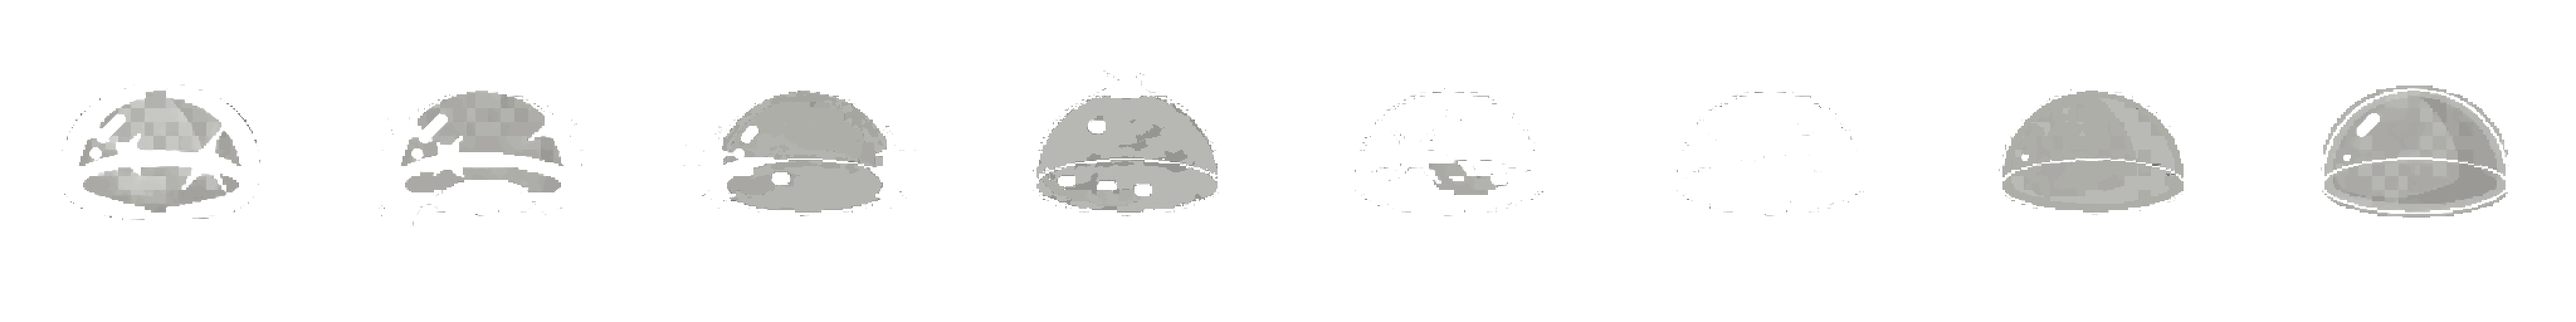
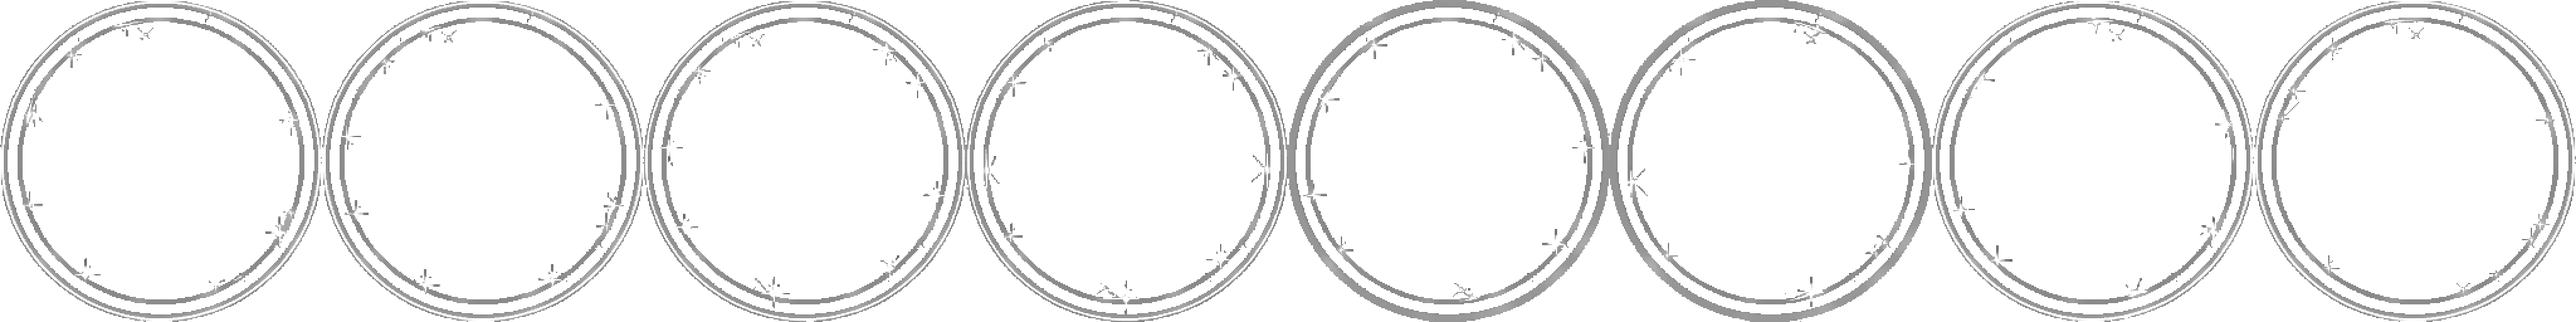
fix(vfx): the shield surrounds the hunter, because the art is a shell now
The VFX contract's own acceptance clause did not pass. Measured in the arena on
all four named silhouettes, the standing barrier cleared neither the crown nor
the soles of anybody: 488 x 315 px of picture across a 412-px hunter, a band
across the ribs.

The placement was already right. fx_shield was a squat hemisphere filling
0.762 x 0.492 of its 512-px frame, so asking for the authored 1.15 x the
hunter's visible height meant a 963-px frame — ratio 1.88, over the asset-scale
budget. The renderer refused the magnification (LAW 16), clamped to 1.25 and
drew the largest honest dome the art could show, which is 0.76 x his height.
No number could have fixed that; the wall was the asset.

So the asset was regenerated, not the number:

  create_image_pixen 4200157a-9a34-4006-919b-c33ebbbe711c  (a closed ring of
    light, thick band, empty middle, reaching all four edges)
  animate_image      4ed34cb6-2e05-4c20-a42c-0227194d327d  (first and last
    frame pinned to that still, so the loop closes)
  clip.py job --effect + rhart.py whiten

Strip geometry unchanged: 4096 x 512, eight 512-px frames, which is what the
declared frame count in the profile table depends on. It fills 1.000 x 1.000 of
its frame now, so the same authored 1.15 draws a 474-px shell at 0.93 of native
— inside the budget, clearing the crown by 39 px and the soles by 23 on every
hunter from THE OATHBOUND's 162-px silhouette to QUIVER's 373.

Two more things the art measurement found:
[…]

Changed region(s): [[0.0, 0.0, 1.0, 1.0]]

diff --git a/tests/unit/IdleXIdle.Game.Tests/vfx_shield_test.cs b/tests/unit/IdleXIdle.Game.Tests/vfx_shield_test.cs
@@ -17,6 +17,15 @@ namespace IdleXIdle.Game.Tests;
 /// height, spanning 39 % to 71 % down his torso. It was, exactly, a tiny sprite in the torso centre.
 /// </para>
 /// <para>
+/// <b>The placement arithmetic alone did not fix it, and this file is where that shows.</b> Sizing by
+/// the CONTENT rather than the frame took the barrier from 132 px to 315, which is bigger and still
+/// cuts the crown and the soles — the clause fails on 0.76x exactly as it fails on 0.32x. The wall was
+/// the art: a hemisphere filling 0.492 of its frame cannot be enlarged to a whole-body shell without
+/// the magnification LAW 16 forbids. So the strip was regenerated (2026-09-04) as a closed ring filling
+/// its frame, and the same authored 1.15 now draws 474 px at 0.93 of native. Both content boxes are
+/// pinned below: the retired one keeps the clamp under test, the shipped one carries the acceptance.
+/// </para>
+/// <para>
 /// <b>And §71's named pair cannot fail.</b> <c>UiKit.AnimSprite</c> fills the box height with the
 /// cropped figure, so all ten champions draw within four pixels of the same HEIGHT: THE SEEKER is
 /// 412 px and THE MAGPIE is 412 px. A height-based barrier is identical on them by construction. The
@@ -48,11 +57,26 @@ public class VfxShieldTests
         ["quiver"] = new(0.096f, 0.068f, 0.096f, 0.033f),
     };
 
-    /// <summary>The shipped <c>fx_shield</c> strip: its dome fills 0.762 x 0.492 of a 512-px frame.</summary>
-    private static readonly ContentBox ShippedShield = new(0.119f, 0.215f, 0.119f, 0.293f);
+    /// <summary>
+    /// The shipped <c>fx_shield</c> strip as regenerated 2026-09-04: a closed ring filling its frame.
+    /// </summary>
+    /// <remarks>
+    /// Measured from <c>assets/art/VFX/shield/fx_shield_strip8_512.png</c> by
+    /// <c>tools/asset-pipeline/fx_bounds.py</c>: <c>L 0.000 T 0.000 R 0.000 B 0.000 —
+    /// content 1.000w x 1.000h</c>. The ring is inscribed in the square, so its drawn diameter IS the
+    /// content box, which is what lets the barrier be a fraction of the hunter rather than of a margin.
+    /// </remarks>
+    private static readonly ContentBox ShippedShield = new(0f, 0f, 0f, 0f);
 
-    /// <summary>The regeneration order in §8 of the design: content at 0.91 of the frame, centred.</summary>
-    private static readonly ContentBox OrderedShield = new(0.093f, 0.045f, 0.093f, 0.045f);
+    /// <summary>
+    /// The strip that shipped until 2026-09-04 — a hemisphere filling 0.762 x 0.492 of its frame.
+    /// </summary>
+    /// <remarks>
+    /// Kept as a NAMED FIXTURE, not as history for its own sake: it is the only art in the repo that
+    /// exercises the §73 clamp, and a clamp with no test is a branch nobody has run. It is what LAW 16
+    /// looks like as numbers — the shape a regeneration order is written against.
+    /// </remarks>
+    private static readonly ContentBox RetiredDome = new(0.119f, 0.215f, 0.119f, 0.293f);
 
     private const int Native = 512;
 
@@ -73,7 +97,7 @@ public class VfxShieldTests
         Assert.Equal(268, Hunter("seeker").Rect.Width);
         Assert.Equal(302, Hunter("magpie").Rect.Width);
 
-        Assert.Equal(Barrier("seeker", OrderedShield).Content, Barrier("magpie", OrderedShield).Content);
+        Assert.Equal(Barrier("seeker", ShippedShield).Content, Barrier("magpie", ShippedShield).Content);
     }
 
     [Fact]
@@ -90,16 +114,34 @@ public class VfxShieldTests
     public void test_the_barrier_encloses_every_champion_with_room_to_spare()
     {
         // The enclosure clause. It replaces a runtime width-guard dial that would never have fired:
-        // the binding case is QUIVER at 373 px inside a 424-px dome, and a dial that never fires is a
-        // dormant dial. The constraint lives here and in the regeneration order instead.
+        // the binding case is QUIVER at 373 px inside a 474-px shell, and a dial that never fires is a
+        // dormant dial. The constraint lives here and in the art's own framing instead.
         foreach (var id in Champions.Keys)
         {
             var hunter = Hunter(id);
-            var dome = Barrier(id, OrderedShield).Content;
+            var dome = Barrier(id, ShippedShield).Content;
             Assert.True(dome.Width >= hunter.Rect.Width * 1.05f,
                         $"{id}: dome {dome.Width} does not enclose a {hunter.Rect.Width}px silhouette");
             Assert.True(dome.Left <= hunter.Rect.Left && dome.Right >= hunter.Rect.Right,
                         $"{id}: the hunter pokes out of his own shield");
+        }
+    }
+
+    [Fact]
+    public void test_the_barrier_clears_the_crown_and_the_soles_on_every_champion()
+    {
+        // THE CLAUSE THE VERIFIER FAILED THE CONTRACT ON: it is not enough that the barrier be large,
+        // it has to close ABOVE the head and BELOW the feet, or it is a band across the body wearing a
+        // bigger number. Both edges, all ten, with the ±0.02-height lift the profile carries — which is
+        // why the two margins are not equal and both have to be asserted.
+        foreach (var id in Champions.Keys)
+        {
+            var hunter = Hunter(id);
+            var dome = Barrier(id, ShippedShield).Content;
+            Assert.True(dome.Top <= hunter.Rect.Top - 20,
+                        $"{id}: the shell closes {hunter.Rect.Top - dome.Top}px above the crown, which is not clear of it");
+            Assert.True(dome.Bottom >= hunter.Rect.Bottom + 20,
+                        $"{id}: the shell closes {dome.Bottom - hunter.Rect.Bottom}px below the soles, which is not clear of them");
         }
     }
 
@@ -111,7 +153,7 @@ public class VfxShieldTests
         foreach (var id in Champions.Keys)
         {
             var hunter = Hunter(id);
-            var dome = Barrier(id, OrderedShield).Content;
+            var dome = Barrier(id, ShippedShield).Content;
             var ratio = dome.Height / (float)hunter.Rect.Height;
             Assert.InRange(ratio, 1.10f, 1.20f);
             Assert.True(dome.Top < hunter.Rect.Top - 20,
@@ -123,11 +165,11 @@ public class VfxShieldTests
     public void test_the_barrier_is_not_a_tiny_sprite_in_the_torso_centre()
     {
         // The literal §106 clause, and the literal defect: 0.32x the hunter, from 39 % to 71 % down him.
-        // Even against the SHIPPED strip — which the budget forces the renderer to under-draw — the
-        // barrier now covers most of the body rather than a band across the ribs.
+        // Measured against what the renderer ACTUALLY draws — clamp: true is the renderer's own call —
+        // so this cannot be satisfied by a size the budget then refuses to honour.
         var hunter = Hunter("seeker");
         var drawn = Barrier("seeker", ShippedShield, clamp: true).Content;
-        Assert.True(drawn.Height / (float)hunter.Rect.Height > 0.70f);
+        Assert.True(drawn.Height > hunter.Rect.Height, "the shell is taller than the man inside it");
         Assert.True(drawn.Width > hunter.Rect.Width);
         Assert.Equal(hunter.Rect.Center.X, drawn.Center.X);
     }
@@ -140,10 +182,10 @@ public class VfxShieldTests
         // "absorb impact lands on barrier" is only guaranteeable if the absorb IS the barrier's
         // rectangle. A ripple offset onto the dome's flank would be normalised to the CHAMPION's width,
         // which runs 162–373 px, so the same number would land somewhere different on every hunter.
-        var barrier = Barrier("seeker", OrderedShield).Content;
+        var barrier = Barrier("seeker", ShippedShield).Content;
         foreach (var p in new[] { VfxProfiles.ShieldGain, VfxProfiles.ShieldAbsorb, VfxProfiles.ShieldUndying })
         {
-            var moment = VfxResolver.Resolve(p, Hunter("seeker"), OrderedShield, Native, Native).Content;
+            var moment = VfxResolver.Resolve(p, Hunter("seeker"), ShippedShield, Native, Native).Content;
             Assert.Equal(barrier, moment);
         }
     }
@@ -154,7 +196,7 @@ public class VfxShieldTests
         // fx_shield_break's own measured content box — it already fills 0.926 x 0.922 of its frame,
         // which is the shape fx_shield is being ordered to match.
         var breakArt = new ContentBox(0.037f, 0.043f, 0.037f, 0.035f);
-        var barrier = Barrier("seeker", OrderedShield).Content;
+        var barrier = Barrier("seeker", ShippedShield).Content;
         var burst = VfxResolver.Resolve(VfxProfiles.ShieldBreak, Hunter("seeker"), breakArt, Native, Native).Content;
 
         Assert.True(burst.Height > barrier.Height, "the break must read as the barrier coming apart");
@@ -173,7 +215,7 @@ public class VfxShieldTests
         {
             var drawn = new Rectangle(box.X + push, box.Y, box.Width, box.Height);
             var hunter = new VisualBounds(VfxFigure.VisualRect(drawn, Champions["seeker"]), 1);
-            var dome = VfxResolver.Resolve(VfxProfiles.ShieldBarrier, hunter, OrderedShield, Native, Native).Content;
+            var dome = VfxResolver.Resolve(VfxProfiles.ShieldBarrier, hunter, ShippedShield, Native, Native).Content;
             Assert.Equal(hunter.Rect.Center.X, dome.Center.X);
             Assert.Equal(box.Center.X + push, dome.Center.X);
         }
@@ -182,34 +224,51 @@ public class VfxShieldTests
         Assert.Equal(VfxFollow.Pinned, VfxProfiles.ShieldBarrier.Follow);
     }
 
-    // ── LAW 16: the asset is wrong, and the contract says so in a number ──────────────────────────
+    // ── LAW 16: the asset was wrong, and the contract said so in a number ─────────────────────────
 
     [Fact]
-    public void test_the_shipped_shield_strip_is_over_the_asset_scale_budget()
+    public void test_the_retired_dome_was_over_the_budget_and_the_renderer_clamped_it()
     {
-        // THE WHOLE OF LAW 16 IN ONE ASSERTION. To reach §65's band with today's art the renderer would
-        // have to blow a 512-px frame up to 963 — which is `scale = 3.4` with a new name. The asset is
-        // regenerated, not the number, and until it is the renderer draws the honest smaller dome and
-        // the ratio reports why.
-        var honest = Barrier("seeker", ShippedShield);
+        // THE WHOLE OF LAW 16 IN ONE ASSERTION, kept live against the art it was written about. To
+        // reach §65's band with the hemisphere the renderer would have had to blow a 512-px frame up to
+        // 963 — `scale = 3.4` with a new name. It refused, drew the honest smaller dome, and the ratio
+        // said why. That refusal is the branch this fixture exists to keep exercised: every strip the
+        // game ships is inside the budget now, so without a named over-budget shape the clamp would be
+        // code no test has ever run.
+        var honest = Barrier("seeker", RetiredDome);
         Assert.Equal(VfxBudget.Verdict.Over, VfxBudget.Of(honest.NativeRatio));
         Assert.InRange(honest.NativeRatio, 1.87f, 1.89f);
 
-        var drawn = Barrier("seeker", ShippedShield, clamp: true);
+        var drawn = Barrier("seeker", RetiredDome, clamp: true);
         Assert.Equal(VfxBudget.Max, drawn.NativeRatio, 3);
+
+        // ...and clamped is not the same as enough. THE DEFECT, as the number it was: 315 px of picture
+        // across a 412-px hunter, cutting his crown and his soles both.
+        var hunter = Hunter("seeker");
+        var clamped = drawn.Content;
+        Assert.True(clamped.Height < hunter.Rect.Height, "the retired dome could not reach the hunter's height");
+        Assert.True(clamped.Top > hunter.Rect.Top, "...so it cut the crown");
+        Assert.True(clamped.Bottom < hunter.Rect.Bottom, "...and it cut the soles");
     }
 
     [Fact]
-    public void test_the_regeneration_order_brings_every_shield_moment_into_budget()
+    public void test_the_shipped_strip_brings_every_shield_moment_inside_the_budget()
     {
-        // The order: 8 frames of 512, content at least 0.91 of the frame height, vertically centred,
-        // aspect 0.85–0.95. These are the ratios that order produces — the evidence that the profile
-        // numbers are achievable rather than aspirational.
+        // The regeneration landed: a closed ring on 8 frames of 512, filling its frame, so the SAME
+        // authored 1.15 draws 474 px at 0.93 of native on every hunter. The evidence that the profile
+        // numbers are achievable rather than aspirational — and that nothing had to be magnified to
+        // get there.
         foreach (var id in Champions.Keys)
         {
-            var ratio = Barrier(id, OrderedShield).NativeRatio;
-            Assert.Equal(VfxBudget.Verdict.Ok, VfxBudget.Of(ratio));
+            var placed = Barrier(id, ShippedShield);
+            Assert.Equal(VfxBudget.Verdict.Ok, VfxBudget.Of(placed.NativeRatio));
+            // Unclamped and clamped agree: the renderer is drawing the size the design asked for.
+            Assert.Equal(placed.Content, Barrier(id, ShippedShield, clamp: true).Content);
         }
+
+        foreach (var p in new[] { VfxProfiles.ShieldGain, VfxProfiles.ShieldAbsorb, VfxProfiles.ShieldUndying })
+            Assert.Equal(VfxBudget.Verdict.Ok,
+                         VfxBudget.Of(VfxResolver.Resolve(p, Hunter("quiver"), ShippedShield, Native, Native).NativeRatio));
     }
 
     // ── §105: the same contract on creature-sized subjects ───────────────────────────────────────

diff --git a/src/IdleXIdle.Game/HuntScreen.cs b/src/IdleXIdle.Game/HuntScreen.cs
@@ -1551,9 +1551,9 @@ public sealed class HuntScreen
                     // BREAKING IS LOUD, because from the next bite the player is paying in health — the
                     // loudest beat in the fight that is not a boss falling (§63's priority ladder puts
                     // Shield Break at the top with Break / Stun / Execute). It gets the REWARD length
-                    // and its own art: fx_shield_break, a cracked dome bursting into shards, generated
-                    // for exactly this moment because fx_shield is a dome that flashes IN and settles —
-                    // a gain played backwards is not a break.
+                    // and its own art: fx_shield_break, a cracked shell bursting into shards, generated
+                    // for exactly this moment because fx_shield is the barrier STANDING — a shell that
+                    // is asked for every frame it exists. A held loop played backwards is not a break.
                     //
                     // The cue was sfx_champ_down at 0.30 — the champion's DEATH sample, quietened, for
                     // an event that is not a death. sfx_shield_break is the crack the §86 vocabulary
@@ -4251,9 +4251,20 @@ public sealed class HuntScreen
     /// both the smaller change and the better picture.
     /// </para>
     /// <para>
-    /// Restrained on purpose. It sits at about a third of the aura's size so it hugs the figure rather
-    /// than standing off it, its alpha rests low enough to read through, and it breathes slowly: SHIELD
-    /// is a STATE, and a state that flashes is indistinguishable from an event.
+    /// IT SURROUNDS THE HUNTER, and that is the acceptance clause (§106). The size is
+    /// <see cref="VfxProfiles.ShieldBarrier"/>'s 1.15 × his VISIBLE height, so the same number encloses
+    /// THE OATHBOUND's 162-px silhouette and QUIVER's 373-px one: measured in the arena it is a 474-px
+    /// circle around a 412-px figure, clearing the crown by 39 px and the soles by 23. What made that
+    /// possible was not a bigger multiplier — the strip is drawn at 0.93 of its own native size, inside
+    /// the §73 budget — it was the ART. The old <c>fx_shield</c> was a squat hemisphere filling
+    /// 0.762 × 0.492 of its frame, so the largest honest picture it could ever show was 315 px of dome
+    /// across a hunter's ribs, and reaching the band with it would have meant magnifying a 512-px frame
+    /// to 963 (LAW 16). It is a closed ring now.
+    /// </para>
+    /// <para>
+    /// It breathes slowly and never flashes: SHIELD is a STATE, and a state that flashes is
+    /// indistinguishable from an event. The gain, the absorb and UNDYING flare on the SAME rectangle,
+    /// so a blow always lands on the barrier rather than beside it.
     /// </para>
     /// </remarks>
     private void HoldShieldBarrier()
@@ -4292,9 +4303,17 @@ public sealed class HuntScreen
     }
 
     /// <summary>How present the barrier is while nothing is happening to it.</summary>
-    private const float ShieldShellRest = 0.16f;
+    /// <remarks>
+    /// RAISED WITH THE ART (2026-09-04). 0.16 was calibrated against the old strip, which was a solid
+    /// grey dome filling a fifth of its frame — a shape that reads at almost any alpha because it is a
+    /// mass. The barrier is a THIN BRIGHT RING now, about eleven drawn pixels of band around a 474-px
+    /// circle, and a line that thin at 0.16 additive is a smudge on the floor rather than a shell: the
+    /// first capture on the new art showed a barrier that surrounded the hunter correctly and could not
+    /// be seen doing it. Brightness belongs to the art it is lighting, so it moved when the art did.
+    /// </remarks>
+    private const float ShieldShellRest = 0.40f;
     /// <summary>...and how far the slow breath carries it above that.</summary>
-    private const float ShieldShellSwing = 0.14f;
+    private const float ShieldShellSwing = 0.20f;
 
     // THE THREE SIZE DIALS THAT USED TO LIVE HERE ARE GONE — AuraScale 6.4, ShieldShellScale 2.6 and
     // the break's scale 4, each a multiple of a 104-px "base unit" that no longer exists. A size in

diff --git a/src/IdleXIdle.Game/Vfx/VfxProfiles.cs b/src/IdleXIdle.Game/Vfx/VfxProfiles.cs
@@ -66,14 +66,23 @@ public static class VfxProfiles
     public static readonly VfxProfile DeathCreature = new(
         "death.creature", "fx_death", VfxSubjectKind.Creature, VfxAnchor.Center, 0.70f, Fps: 9f, DelaySeconds: 0.45f);
 
-    // ── Shield: one dome, four moments (§106) ─────────────────────────────────────────────────────
+    // ── Shield: one shell, four moments (§106) ────────────────────────────────────────────────────
     //
     //    The four share a geometry on purpose. §106 asks that the absorb "land on the barrier" and the
     //    break be "positioned correctly", and the only way to guarantee that on ten silhouettes is for
-    //    all four to resolve to the same rectangle. A ripple offset onto the dome's flank was
+    //    all four to resolve to the same rectangle. A ripple offset onto the shell's flank was
     //    considered and rejected: the offset is normalised to the CHAMPION's width (162–373 px) while
-    //    the dome is one constant size, so the same number would land somewhere different on every
+    //    the shell is one constant size, so the same number would land somewhere different on every
     //    hunter.
+    //
+    //    1.15 IS THE SIZE THE ART CAN ACTUALLY DRAW. It was not reachable until 2026-09-04: fx_shield
+    //    was a squat hemisphere filling 0.762 x 0.492 of its frame, so the resolver had to ask for a
+    //    963-px frame to show a 474-px picture — ratio 1.88, over the §73 budget, clamped, and the
+    //    barrier came out 315 px tall across a 412-px hunter's ribs. That is the "small effect centred
+    //    on the torso" the brief calls a failure, and the fix was the ASSET, never the number
+    //    (LAW 16). The strip is a closed ring filling its whole frame now and the same 1.15 resolves at
+    //    ratio 0.93 — inside the budget, 474 px across, clearing crown and soles on all ten. The
+    //    measured content boxes both sides of that change are pinned in vfx_shield_test.
 
     public static readonly VfxProfile ShieldBarrier = new(
         "shield.barrier", "fx_shield", VfxSubjectKind.Champion, VfxAnchor.Center, 1.15f,
@@ -89,7 +98,7 @@ public static class VfxProfiles
         "shield.undying", "fx_shield", VfxSubjectKind.Champion, VfxAnchor.Center, 1.15f, Fps: 12f, OffsetY: -0.02f);
 
     /// <summary>
-    /// The break bursts 20 px WIDER than the dome it replaces, so it reads as the barrier coming apart
+    /// The break bursts 20 px WIDER than the shell it replaces, so it reads as the barrier coming apart
     /// rather than as a separate picture. Its frame rate follows the motion vocabulary's REWARD band,
     /// exactly as it did before — eight frames across 0.35 s.
     /// </summary>

diff --git a/src/IdleXIdle.Game/Vfx/VfxContract.cs b/src/IdleXIdle.Game/Vfx/VfxContract.cs
@@ -135,9 +135,12 @@ public readonly record struct VisualBounds(Rectangle Rect, int Facing)
 /// <summary>A strip frame's transparent margins as fractions of the FRAME, union across all frames.</summary>
 /// <remarks>
 /// Measured by <c>UiKit.Content(key)</c> from the same cached alpha scans the draw path already uses.
-/// It matters because <c>VfxPlayer</c> draws the WHOLE padded frame: <c>fx_shield</c>'s dome fills
-/// 0.762 x 0.492 of its 512-px frame, so a "270 px" shield is a 132-px picture. Relative scale
-/// measures the CONTENT; the frame size is derived from it.
+/// It matters because <c>VfxPlayer</c> draws the WHOLE padded frame. The case that named the type:
+/// <c>fx_shield</c> was a hemisphere filling 0.762 x 0.492 of its 512-px frame, so a "270 px" shield
+/// was a 132-px picture, and no multiplier could have fixed it — asking for the barrier's real size
+/// meant a 963-px frame, which is LAW 16's forbidden magnification. The strip was regenerated
+/// (2026-09-04) as a closed ring filling its whole frame and the same authored 1.15 now draws 474 px
+/// at 0.93 of native. Relative scale measures the CONTENT; the frame size is derived from it.
 /// </remarks>
 public readonly record struct ContentBox(float Left, float Top, float Right, float Bottom)
 {

diff --git a/design/art/arena-art-contract.md b/design/art/arena-art-contract.md
@@ -57,13 +57,18 @@ Two consequences for anyone GENERATING an effect:
 1. **Padding is not free.** The renderer draws the whole frame, so a strip whose art fills half its
    frame needs a frame twice as large to show the same picture — and that size is reported as a ratio
    against the strip's authored 512. Above **1.25×** the renderer refuses to magnify any further and
-   the effect is flagged; below **0.75×** the strip is simply bigger than it is ever drawn. Measured:
-   `fx_shield`'s dome fills **0.492** of its frame, which is why it cannot reach the barrier band and
-   has been re-ordered; `fx_shield_break` fills **0.922**, and that is the shape to match. Measure any
-   new strip with `tools/asset-pipeline/fx_bounds.py`.
+   the effect is flagged; below **0.75×** the strip is simply bigger than it is ever drawn. The worked
+   case: `fx_shield` used to fill **0.492** of its frame, so the barrier could not reach the 1.10–1.20×
+   band at any honest size — the renderer clamped it and drew a 315-px dome across a 412-px hunter. It
+   was **regenerated 2026-09-04** and now fills **1.000**, so the same authored 1.15 draws 474 px at
+   **0.93×** native. `fx_shield_break` fills **0.922**. Measure any new strip with
+   `tools/asset-pipeline/fx_bounds.py`.
 2. **Author the art at the SHAPE the effect is.** A ground ring wants a wide, short strip; every trap
    strip in the tree is a near-square burst, so the ring anchors as a burst standing on the floor
-   rather than as an ellipse lying on it.
+   rather than as an ellipse lying on it. The same rule cost the shield a whole pass: a barrier is a
+   thing that ENCLOSES a standing figure, and the strip drawn for it was a squat hemisphere sitting in
+   the middle of a frame that was 46 % empty below it. No placement number can turn a half-dome into a
+   shell. When an effect must surround its subject, the art must be a closed shape filling its frame.
 
 ## 3. Clips
 
@@ -254,7 +259,8 @@ Vow is bound to it. It is an asset rather than drawn primitives on purpose (play
 "kendin bir kutucuk veya buton oluşturup görsel olarak onu kullanıyorsun").
 
 Combat beats: `fx_hit` (spark), `fx_weakhit` (puff), `fx_crit` (starburst), `fx_death` (ash plume),
-`fx_heal` (rising motes), `fx_shield` (dome flash), `fx_shield_break` (the dome bursting into shards).
+`fx_heal` (rising motes), `fx_shield` (a closed ring of light, held around the hunter for as long as
+the shield stands), `fx_shield_break` (that shell bursting into shards).
 
 `fx_levelup` (a column of light) is generated, on disk, and **played by nothing**. Its alias was
 removed 2026-09-03 so it stops claiming a consumer it does not have. The level-up moment it was made
@@ -278,6 +284,22 @@ which is a decision for the desk, not a number to turn. Until then it is a flagg
 * Assembly — `tools/asset-pipeline/v2/clip.py` (fetch → union-bbox strip → gate → sheet). The
   union bounding box across frames keeps the motion AND keeps the feet on one row, which is what
   `UiKit.AnimSprite` assumes when it measures a single bottom pad for the whole clip.
+* A HELD effect needs a LOOP, and the generator does not give you one by asking. "Pulses" and
+  "ripples once" both came back with a frame that fades to nothing — measured, frame 5 of 8 was empty —
+  which on a held effect is a barrier that blinks off once a second. Two things fixed it: pin the
+  ending (`animate_image(first_frame_url=X, last_frame_url=X, …)`, so the clip interpolates back to
+  where it started) and describe motion that CANNOT vanish ("the whole ring rotates slowly clockwise,
+  staying complete and equally bright in every frame"). Check it with a per-frame fill measurement
+  before filing, not by watching it.
+* `fx_shield`, regenerated 2026-09-04 (the shell that must surround the hunter):
+  `create_image_pixen(256², no_background, view="side", direction="west")` job
+  `4200157a-9a34-4006-919b-c33ebbbe711c` — "a solid white ring of light: one big round circle band,
+  thick and bright, the middle of the circle completely EMPTY, the ring reaching almost to all four
+  edges of the picture" — then `animate_image` job `4ed34cb6-2e05-4c20-a42c-0227194d327d` (first and
+  last frame pinned to that still), then
+  `clip.py job --job … --out assets/art/VFX/shield/fx_shield_strip8_512.png --effect` and
+  `rhart.py whiten`. Filling the frame is the whole point: a ring inscribed in the square means the
+  content box IS the drawn diameter, so 1.15 × the hunter's height is 1.15 × the hunter's height.
 
 ## 7. Quality gate (`rhart.py gate`)
 
